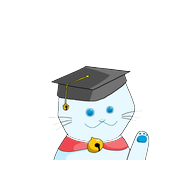
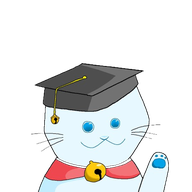
style(ui): redesign top header with clean alignment, optimal mascot crop, and separate support buttons

Changed region(s): [[0.1562, 0.3125, 0.9062, 1.0]]

diff --git a/android/app/src/main/assets/index.html b/android/app/src/main/assets/index.html
@@ -105,23 +105,28 @@
     <div class="max-w-7xl mx-auto flex items-center justify-between gap-2">
 
       <!-- Brand Logo & Title -->
-      <div class="flex items-center gap-2.5 sm:gap-3 cursor-pointer" onclick="openCloudModal()" title="Info Toko & Multi-Store">
+      <div class="flex items-center gap-2.5 sm:gap-3 cursor-pointer min-w-0" onclick="openCloudModal()" title="Info Toko & Multi-Store">
         <div
-          class="w-11 h-11 rounded-2xl bg-emerald-50 border border-emerald-200 flex items-center justify-center shrink-0 shadow-sm overflow-hidden p-1">
+          class="w-10 h-10 sm:w-11 sm:h-11 rounded-2xl bg-white border border-stone-200 shadow-xs flex items-center justify-center shrink-0 overflow-hidden p-0.5 hover:border-emerald-400 transition">
           <img src="icon-192.png" alt="Aristotle POS" class="w-full h-full object-contain">
         </div>
-        <div>
-          <h1 id="appHeaderStoreTitle" class="text-lg sm:text-2xl font-black tracking-tight leading-tight text-emerald-950">Kedai Usaha Mami</h1>
-            <span class="text-stone-700">Aristotle POS</span>
-            <button type="button" onclick="event.stopPropagation(); KasirApp.openReleaseNotesModal()" class="cursor-pointer px-2 py-0.5 rounded-full bg-emerald-100 hover:bg-emerald-200 text-emerald-900 text-[10px] font-black transition flex items-center gap-1 shadow-xs border border-emerald-300" title="Klik untuk melihat Apa yang Baru di v1.1.0">
+        <div class="min-w-0">
+          <div class="flex items-center gap-1">
+            <h1 id="appHeaderStoreTitle" class="text-base sm:text-lg lg:text-xl font-black tracking-tight leading-tight text-stone-900 truncate">
+              Kedai Usaha Mami
+            </h1>
+            <span class="material-symbols-rounded text-sm sm:text-base text-stone-400 shrink-0">expand_more</span>
+          </div>
+          <div class="flex items-center gap-1.5 mt-0.5 leading-none">
+            <span class="text-[11px] font-bold text-stone-500">Aristotle POS</span>
+            <span class="text-stone-300 text-[10px]">•</span>
+            <button type="button" onclick="event.stopPropagation(); KasirApp.openReleaseNotesModal()"
+              class="px-1.5 py-0.5 rounded-md bg-emerald-50 hover:bg-emerald-100 text-emerald-800 text-[10px] font-black border border-emerald-200/80 transition flex items-center gap-0.5 shadow-2xs"
+              title="Klik untuk melihat Apa yang Baru di v1.1.0">
               <span>v1.1.0</span>
-              <span class="material-symbols-rounded text-xs text-emerald-700">stars</span>
+              <span class="material-symbols-rounded text-[11px] text-emerald-600">stars</span>
             </button>
-            <span>•</span>
-            <a href="https://wa.me/6281345028895" target="_blank" onclick="event.stopPropagation()" class="text-emerald-700 font-extrabold hover:underline" title="Hubungi Bantuan Teknis & Kemitraan">
-              WA: 081345028895
-            </a>
-          </p>
+          </div>
         </div>
       </div>
 
@@ -145,23 +150,34 @@
           </button>
         </div>
 
-        <!-- Separate Dedicated Help Button -->
-        <button onclick="KasirApp.openGuideTour(0)" title="Buka Panduan Kasir Interaktif"
-          class="px-3.5 py-2.5 rounded-2xl bg-white hover:bg-emerald-50 text-stone-700 hover:text-emerald-900 font-extrabold text-xs flex items-center gap-1.5 border border-stone-200 hover:border-emerald-300 shadow-sm transition active:scale-95 touch-target-large">
-          <span class="material-symbols-rounded text-lg text-emerald-700">help</span>
-          <span>Panduan</span>
-        </button>
+        <!-- Separate Dedicated Help & Support Buttons -->
+        <div class="flex items-center gap-1.5">
+          <a href="https://wa.me/6281345028895" target="_blank" title="Bantuan WhatsApp: 081345028895"
+            class="px-3 py-2 rounded-2xl bg-white hover:bg-emerald-50 text-stone-700 hover:text-emerald-900 font-bold text-xs flex items-center gap-1.5 border border-stone-200 hover:border-emerald-300 shadow-xs transition">
+            <span class="material-symbols-rounded text-base text-emerald-600">chat</span>
+            <span>Bantuan</span>
+          </a>
+          <button onclick="KasirApp.openGuideTour(0)" title="Buka Panduan Kasir Interaktif"
+            class="px-3 py-2 rounded-2xl bg-white hover:bg-emerald-50 text-stone-700 hover:text-emerald-900 font-bold text-xs flex items-center gap-1.5 border border-stone-200 hover:border-emerald-300 shadow-xs transition active:scale-95 touch-target-large">
+            <span class="material-symbols-rounded text-base text-emerald-700">help</span>
+            <span>Panduan</span>
+          </button>
+        </div>
       </div>
 
-      <!-- Quick Action Buttons on Mobile Header (Distinct Separation to Prevent Misclick) -->
-      <div class="lg:hidden flex items-center gap-2.5">
+      <!-- Quick Action Buttons on Mobile Header -->
+      <div class="lg:hidden flex items-center gap-1.5">
+        <a href="https://wa.me/6281345028895" target="_blank" title="Bantuan WhatsApp: 081345028895"
+          class="w-9 h-9 rounded-xl bg-white hover:bg-emerald-50 text-emerald-700 flex items-center justify-center border border-stone-200 shadow-xs transition active:scale-90 touch-target-large">
+          <span class="material-symbols-rounded text-lg">chat</span>
+        </a>
         <button onclick="KasirApp.openGuideTour(0)" title="Bantuan Panduan Kasir" aria-label="Bantuan Panduan"
-          class="w-9 h-9 rounded-xl bg-white hover:bg-stone-100 text-stone-600 flex items-center justify-center border border-stone-200 shadow-sm transition active:scale-90 touch-target-large">
-          <span class="material-symbols-rounded text-xl text-stone-500">help</span>
+          class="w-9 h-9 rounded-xl bg-white hover:bg-stone-100 text-stone-600 flex items-center justify-center border border-stone-200 shadow-xs transition active:scale-90 touch-target-large">
+          <span class="material-symbols-rounded text-lg text-stone-500">help</span>
         </button>
         <button id="mobileHeaderCartBtn" onclick="toggleMobileCartDrawer()"
-          class="relative px-3.5 py-2 rounded-xl bg-stone-100 text-stone-500 border border-stone-200 flex items-center gap-1.5 touch-target-large active:scale-95 transition">
-          <span class="material-symbols-rounded text-lg text-stone-500">shopping_cart</span>
+          class="relative px-3 py-1.5 rounded-xl bg-stone-100 text-stone-600 border border-stone-200 flex items-center gap-1.5 touch-target-large active:scale-95 transition">
+          <span class="material-symbols-rounded text-lg text-stone-600">shopping_cart</span>
           <span id="mobileHeaderCartTotal" class="text-xs font-bold">Rp 0</span>
         </button>
       </div>

diff --git a/index.html b/index.html
@@ -105,23 +105,28 @@
     <div class="max-w-7xl mx-auto flex items-center justify-between gap-2">
 
       <!-- Brand Logo & Title -->
-      <div class="flex items-center gap-2.5 sm:gap-3 cursor-pointer" onclick="openCloudModal()" title="Info Toko & Multi-Store">
+      <div class="flex items-center gap-2.5 sm:gap-3 cursor-pointer min-w-0" onclick="openCloudModal()" title="Info Toko & Multi-Store">
         <div
-          class="w-11 h-11 rounded-2xl bg-emerald-50 border border-emerald-200 flex items-center justify-center shrink-0 shadow-sm overflow-hidden p-1">
+          class="w-10 h-10 sm:w-11 sm:h-11 rounded-2xl bg-white border border-stone-200 shadow-xs flex items-center justify-center shrink-0 overflow-hidden p-0.5 hover:border-emerald-400 transition">
           <img src="icon-192.png" alt="Aristotle POS" class="w-full h-full object-contain">
         </div>
-        <div>
-          <h1 id="appHeaderStoreTitle" class="text-lg sm:text-2xl font-black tracking-tight leading-tight text-emerald-950">Kedai Usaha Mami</h1>
-            <span class="text-stone-700">Aristotle POS</span>
-            <button type="button" onclick="event.stopPropagation(); KasirApp.openReleaseNotesModal()" class="cursor-pointer px-2 py-0.5 rounded-full bg-emerald-100 hover:bg-emerald-200 text-emerald-900 text-[10px] font-black transition flex items-center gap-1 shadow-xs border border-emerald-300" title="Klik untuk melihat Apa yang Baru di v1.1.0">
+        <div class="min-w-0">
+          <div class="flex items-center gap-1">
+            <h1 id="appHeaderStoreTitle" class="text-base sm:text-lg lg:text-xl font-black tracking-tight leading-tight text-stone-900 truncate">
+              Kedai Usaha Mami
+            </h1>
+            <span class="material-symbols-rounded text-sm sm:text-base text-stone-400 shrink-0">expand_more</span>
+          </div>
+          <div class="flex items-center gap-1.5 mt-0.5 leading-none">
+            <span class="text-[11px] font-bold text-stone-500">Aristotle POS</span>
+            <span class="text-stone-300 text-[10px]">•</span>
+            <button type="button" onclick="event.stopPropagation(); KasirApp.openReleaseNotesModal()"
+              class="px-1.5 py-0.5 rounded-md bg-emerald-50 hover:bg-emerald-100 text-emerald-800 text-[10px] font-black border border-emerald-200/80 transition flex items-center gap-0.5 shadow-2xs"
+              title="Klik untuk melihat Apa yang Baru di v1.1.0">
               <span>v1.1.0</span>
-              <span class="material-symbols-rounded text-xs text-emerald-700">stars</span>
+              <span class="material-symbols-rounded text-[11px] text-emerald-600">stars</span>
             </button>
-            <span>•</span>
-            <a href="https://wa.me/6281345028895" target="_blank" onclick="event.stopPropagation()" class="text-emerald-700 font-extrabold hover:underline" title="Hubungi Bantuan Teknis & Kemitraan">
-              WA: 081345028895
-            </a>
-          </p>
+          </div>
         </div>
       </div>
 
@@ -145,23 +150,34 @@
           </button>
         </div>
 
-        <!-- Separate Dedicated Help Button -->
-        <button onclick="KasirApp.openGuideTour(0)" title="Buka Panduan Kasir Interaktif"
-          class="px-3.5 py-2.5 rounded-2xl bg-white hover:bg-emerald-50 text-stone-700 hover:text-emerald-900 font-extrabold text-xs flex items-center gap-1.5 border border-stone-200 hover:border-emerald-300 shadow-sm transition active:scale-95 touch-target-large">
-          <span class="material-symbols-rounded text-lg text-emerald-700">help</span>
-          <span>Panduan</span>
-        </button>
+        <!-- Separate Dedicated Help & Support Buttons -->
+        <div class="flex items-center gap-1.5">
+          <a href="https://wa.me/6281345028895" target="_blank" title="Bantuan WhatsApp: 081345028895"
+            class="px-3 py-2 rounded-2xl bg-white hover:bg-emerald-50 text-stone-700 hover:text-emerald-900 font-bold text-xs flex items-center gap-1.5 border border-stone-200 hover:border-emerald-300 shadow-xs transition">
+            <span class="material-symbols-rounded text-base text-emerald-600">chat</span>
+            <span>Bantuan</span>
+          </a>
+          <button onclick="KasirApp.openGuideTour(0)" title="Buka Panduan Kasir Interaktif"
+            class="px-3 py-2 rounded-2xl bg-white hover:bg-emerald-50 text-stone-700 hover:text-emerald-900 font-bold text-xs flex items-center gap-1.5 border border-stone-200 hover:border-emerald-300 shadow-xs transition active:scale-95 touch-target-large">
+            <span class="material-symbols-rounded text-base text-emerald-700">help</span>
+            <span>Panduan</span>
+          </button>
+        </div>
       </div>
 
-      <!-- Quick Action Buttons on Mobile Header (Distinct Separation to Prevent Misclick) -->
-      <div class="lg:hidden flex items-center gap-2.5">
+      <!-- Quick Action Buttons on Mobile Header -->
+      <div class="lg:hidden flex items-center gap-1.5">
+        <a href="https://wa.me/6281345028895" target="_blank" title="Bantuan WhatsApp: 081345028895"
+          class="w-9 h-9 rounded-xl bg-white hover:bg-emerald-50 text-emerald-700 flex items-center justify-center border border-stone-200 shadow-xs transition active:scale-90 touch-target-large">
+          <span class="material-symbols-rounded text-lg">chat</span>
+        </a>
         <button onclick="KasirApp.openGuideTour(0)" title="Bantuan Panduan Kasir" aria-label="Bantuan Panduan"
-          class="w-9 h-9 rounded-xl bg-white hover:bg-stone-100 text-stone-600 flex items-center justify-center border border-stone-200 shadow-sm transition active:scale-90 touch-target-large">
-          <span class="material-symbols-rounded text-xl text-stone-500">help</span>
+          class="w-9 h-9 rounded-xl bg-white hover:bg-stone-100 text-stone-600 flex items-center justify-center border border-stone-200 shadow-xs transition active:scale-90 touch-target-large">
+          <span class="material-symbols-rounded text-lg text-stone-500">help</span>
         </button>
         <button id="mobileHeaderCartBtn" onclick="toggleMobileCartDrawer()"
-          class="relative px-3.5 py-2 rounded-xl bg-stone-100 text-stone-500 border border-stone-200 flex items-center gap-1.5 touch-target-large active:scale-95 transition">
-          <span class="material-symbols-rounded text-lg text-stone-500">shopping_cart</span>
+          class="relative px-3 py-1.5 rounded-xl bg-stone-100 text-stone-600 border border-stone-200 flex items-center gap-1.5 touch-target-large active:scale-95 transition">
+          <span class="material-symbols-rounded text-lg text-stone-600">shopping_cart</span>
           <span id="mobileHeaderCartTotal" class="text-xs font-bold">Rp 0</span>
         </button>
       </div>
